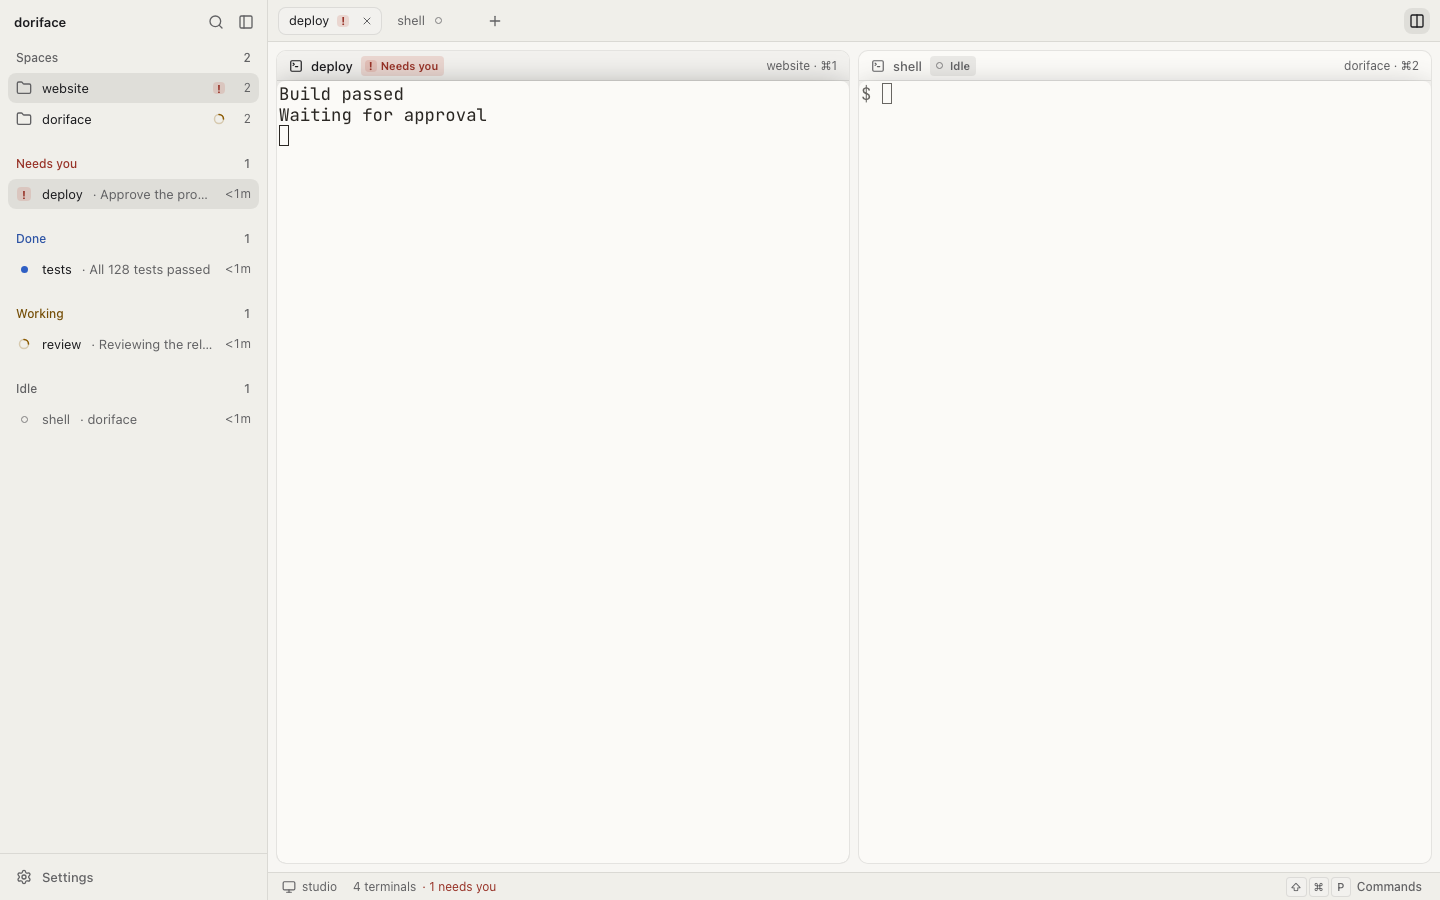
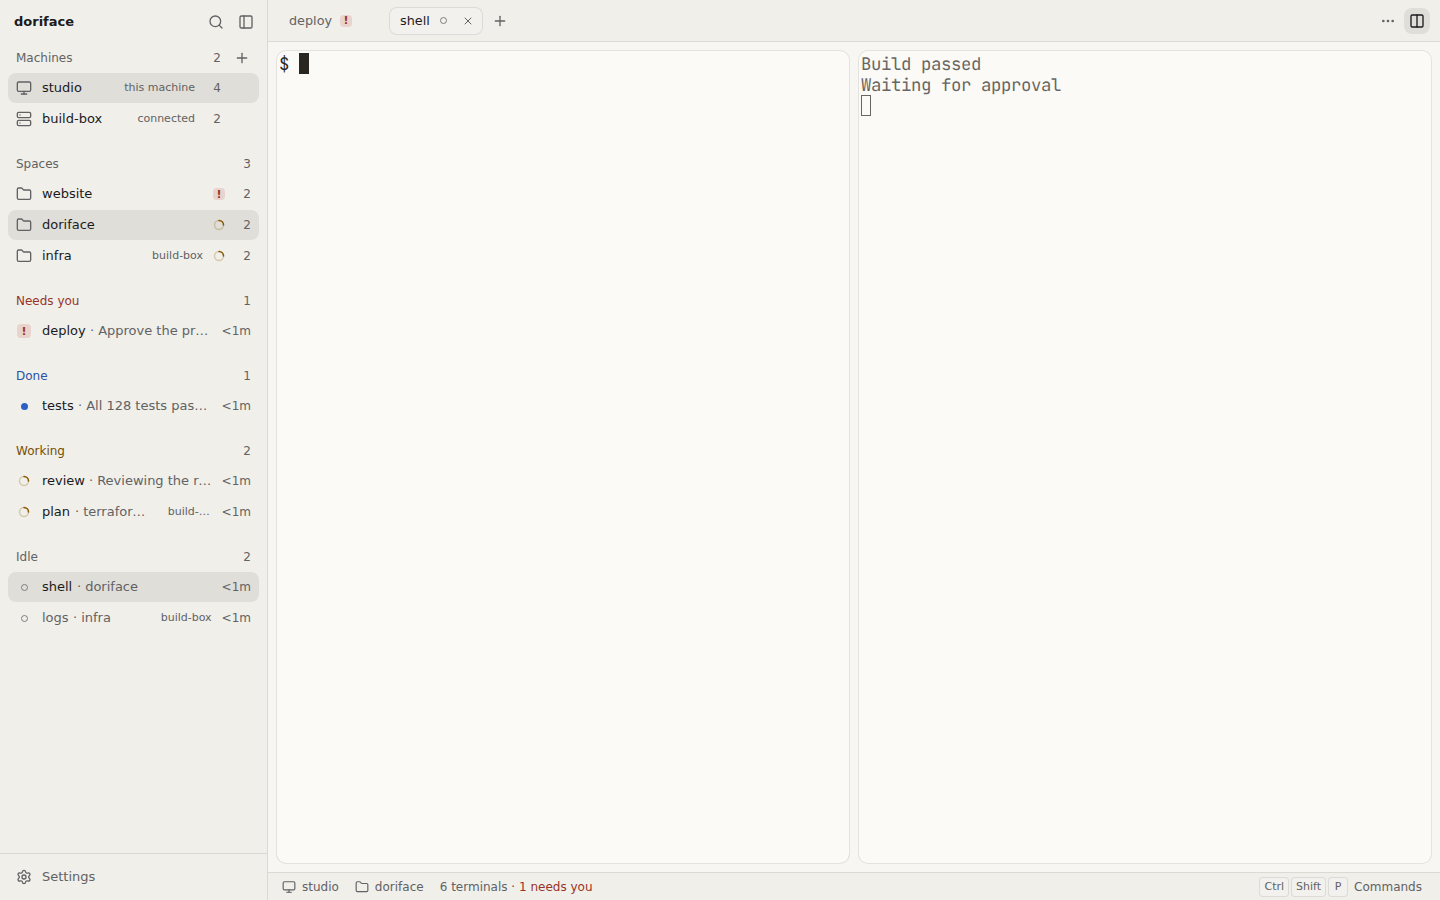
fix(web): HIG re-audit fixes after the recompose (#112)
* test(web): arrivals ease in with transform and opacity, and only fade under reduced motion (#108)

* feat(web,ui): arrival motion for the shown sidebar, the split pane and new tabs, from the motion tokens (#108)

* test(web): read the arrivals' transitions together (#108)

* style: oxfmt the motion table and spec (#108)

* fix(web): arrivals scale up inside their own box instead of sliding across the shell's clipping edge (#108)

* style: oxfmt the motion table (#108)

* fix(web): regions against the shell's clipping edge arrive with a fade only; the spec pins it (#108)

* style: oxfmt (#108)

* refactor(web): drop the old pair split-pane arrival; split-tree panes get their own motion (#108)

* style: oxfmt (#108)

* test(web): arrivals are measured frame by frame, and the first screen animates nothing (#108, review)

* fix(web): arrival motion turns on after the workspace's first loaded paint, so the first screen never animates in (#108, review HIGH-1)

* test(web): record arrivals from the first script, so a load-time fade cannot slip past (#108, review)

* fix(web): arrival waits for the restored default tab too, not only the terminal list (#108, review HIGH-1)

* test(web): sample an arrival until it has settled, not for a fixed 400 ms (#108)

* test(web): compare the rested arrival with a tolerance after it ends (#108, review)

* test(web): returning from Settings animates nothing (#108, review LOW-2)
[…]

diff --git a/apps/web/e2e/capture-shots.ts b/apps/web/e2e/capture-shots.ts
@@ -130,10 +130,28 @@ export const SHOTS: readonly Shot[] = [
       if (width === "390") return void (await expect(page.getByText("Needs you")).toBeVisible());
       await openTerminal(page, /shell/, "$");
       await openTerminal(page, /deploy/, "Waiting for approval");
+      // The tab that opens by default is whichever seeded terminal the core lists first, and Split pairs the active tab
+      // with the first other one: close that default tab if it is neither of these two (keeping its session), so the
+      // pair is deploy and shell every run.
+      const other = page.getByRole("button", { name: /^Close (?!shell$|deploy$)/ });
+      if ((await other.count()) > 0) {
+        await other.click();
+        await page
+          .getByRole("dialog", { name: /^Close .+\?$/ })
+          .getByRole("button", { name: "Keep running" })
+          .click();
+      }
+      await expect(page.getByRole("tab")).toHaveCount(2);
       await page.getByRole("button", { name: "Split" }).click();
-      // Hidden tabs stay mounted, so only the two shown panes count.
+      // Hidden tabs stay mounted, so only the two shown panes count; both must have drawn a row of output (the hidden
+      // help line does not count).
       await expect(page.locator("[data-terminal]:visible")).toHaveCount(2);
-      await expect(page.locator("[data-terminal]:visible").filter({ hasText: "$" })).toBeVisible();
+      const shown = page.locator("section[data-split='true']:visible");
+      await expect(shown.and(page.getByLabel("deploy terminal"))).toHaveCount(1);
+      await expect(shown.and(page.getByLabel("shell terminal"))).toHaveCount(1);
+      await expect(
+        page.locator("[data-terminal]:visible").filter({ has: page.locator(".term-row", { hasText: /\S/ }) }),
+      ).toHaveCount(2);
     },
   },
   {

diff --git a/apps/web/e2e/sessions.e2e.ts b/apps/web/e2e/sessions.e2e.ts
@@ -35,7 +35,14 @@ test("a pane has no title bar: the tab names the terminal and the status bar nam
     .toBe(true);
   // Which chord: tab-shortcuts.e2e.ts presses each tab's and checks it selects that tab.
   await expect(page.getByRole("tab", { selected: true })).toHaveAttribute("title", /\((⌘|Ctrl\+)\d\)$/);
-  await expect(page.getByRole("contentinfo").locator("[data-status-space]")).not.toBeEmpty();
+  // The status bar names the focused terminal's space: the same one the sidebar's Spaces list marks current.
+  const currentSpace = page
+    .getByRole("region", { name: "Spaces" })
+    .locator('[aria-current="true"] [data-floor="name"]');
+  await expect(currentSpace).toHaveText(/\S/);
+  await expect(page.getByRole("contentinfo").locator("[data-status-space] [title]")).toHaveText(
+    await currentSpace.innerText(),
+  );
 });
 
 test("renaming a session from the tab strip updates the tab", async ({ page }) => {

diff --git a/packages/ui/showcase/screens/shell.tsx b/packages/ui/showcase/screens/shell.tsx
@@ -128,7 +128,7 @@ export function WorkspaceBody() {
             <StatusBarItem icon={<Monitor aria-hidden />}>studio</StatusBarItem>
             <StatusBarItem icon={<Folder aria-hidden />}>doriface</StatusBarItem>
             <StatusBarItem>
-              5 agents <span className="text-status-blocked-text">· 1 needs you</span>
+              5 terminals <span className="text-status-blocked-text">· 1 needs you</span>
             </StatusBarItem>
           </>
         }

diff --git a/packages/ui/src/components/tab-bar.tsx b/packages/ui/src/components/tab-bar.tsx
@@ -14,7 +14,7 @@ export interface WorkspaceTab {
   readonly status?: AgentStatus;
   /** The machine it runs on, for a tab that is not on this one: shown after the title and in its tooltip. */
   readonly machine?: string;
-  /** The shortcut that focuses this tab's pane, as written on this platform: shown in the tooltip. */
+  /** The "Go to tab N" chord that selects this tab by position, as written on this platform: shown in the tooltip. */
   readonly shortcut?: string;
 }
 
